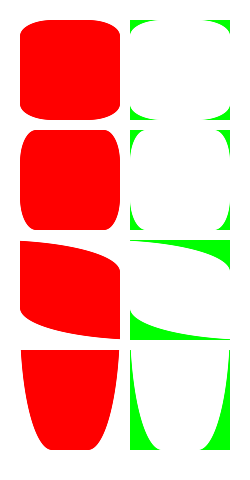
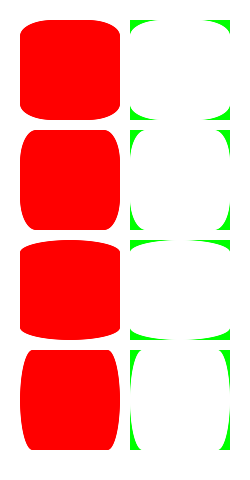
Fix overlapping border radii handling.
This ensures that the shader takes the max clipped distance
from each active clip region, which fixes this bug.

Additionally, apply the CSS spec radius clamping to clip rects.
This makes the results in the clip/clip-ellipse reftest match
Gecko, so I updated the reference image.

Fixes #2174.

diff --git a/src/webrender/src/border.rs b/src/webrender/src/border.rs
@@ -227,7 +227,10 @@ impl NormalBorderHelpers for NormalBorder {
     }
 }
 
-fn ensure_no_corner_overlap(radius: &mut BorderRadius, info: &LayerPrimitiveInfo) {
+pub fn ensure_no_corner_overlap(
+    radius: &mut BorderRadius,
+    rect: &LayerRect,
+) {
     let mut ratio = 1.0;
     let top_left_radius = &mut radius.top_left;
     let top_right_radius = &mut radius.top_right;
@@ -235,23 +238,23 @@ fn ensure_no_corner_overlap(radius: &mut BorderRadius, info: &LayerPrimitiveInfo
     let bottom_left_radius = &mut radius.bottom_left;
 
     let sum = top_left_radius.width + bottom_left_radius.width;
-    if info.rect.size.width < sum {
-        ratio = f32::min(ratio, info.rect.size.width / sum);
+    if rect.size.width < sum {
+        ratio = f32::min(ratio, rect.size.width / sum);
     }
 
     let sum = top_right_radius.width + bottom_right_radius.width;
-    if info.rect.size.width < sum {
-        ratio = f32::min(ratio, info.rect.size.width / sum);
+    if rect.size.width < sum {
+        ratio = f32::min(ratio, rect.size.width / sum);
     }
 
     let sum = top_left_radius.height + bottom_left_radius.height;
-    if info.rect.size.height < sum {
-        ratio = f32::min(ratio, info.rect.size.height / sum);
+    if rect.size.height < sum {
+        ratio = f32::min(ratio, rect.size.height / sum);
     }
 
     let sum = top_right_radius.height + bottom_right_radius.height;
-    if info.rect.size.height < sum {
-        ratio = f32::min(ratio, info.rect.size.height / sum);
+    if rect.size.height < sum {
+        ratio = f32::min(ratio, rect.size.height / sum);
     }
 
     if ratio < 1. {
@@ -353,7 +356,7 @@ impl FrameBuilder {
         // threads being run on CI at once).
 
         let mut border = *border;
-        ensure_no_corner_overlap(&mut border.radius, &info);
+        ensure_no_corner_overlap(&mut border.radius, &info.rect);
 
         let radius = &border.radius;
         let left = &border.left;

diff --git a/src/webrender/src/box_shadow.rs b/src/webrender/src/box_shadow.rs
@@ -87,7 +87,7 @@ impl FrameBuilder {
             let fast_info = match clip_mode {
                 BoxShadowClipMode::Outset => {
                     // TODO(gw): Add a fast path for ClipOut + zero border radius!
-                    clips.push(ClipSource::RoundedRectangle(
+                    clips.push(ClipSource::new_rounded_rect(
                         prim_info.rect,
                         border_radius,
                         ClipMode::ClipOut
@@ -106,7 +106,7 @@ impl FrameBuilder {
                     )
                 }
                 BoxShadowClipMode::Inset => {
-                    clips.push(ClipSource::RoundedRectangle(
+                    clips.push(ClipSource::new_rounded_rect(
                         shadow_rect,
                         shadow_radius,
                         ClipMode::ClipOut
@@ -252,7 +252,7 @@ impl FrameBuilder {
                     //           segment logic, by avoiding drawing
                     //           most of the pixels inside and just
                     //           clipping out along the edges.
-                    extra_clips.push(ClipSource::RoundedRectangle(
+                    extra_clips.push(ClipSource::new_rounded_rect(
                         prim_info.rect,
                         border_radius,
                         ClipMode::ClipOut,
@@ -340,7 +340,7 @@ impl FrameBuilder {
                     // Add a normal clip to ensure nothing gets drawn
                     // outside the primitive rect.
                     if !border_radius.is_zero() {
-                        extra_clips.push(ClipSource::RoundedRectangle(
+                        extra_clips.push(ClipSource::new_rounded_rect(
                             prim_info.rect,
                             border_radius,
                             ClipMode::Clip,

diff --git a/src/webrender/src/clip.rs b/src/webrender/src/clip.rs
@@ -4,7 +4,7 @@
 
 use api::{BorderRadius, ClipMode, ComplexClipRegion, DeviceIntRect, ImageMask, ImageRendering};
 use api::{LayerPoint, LayerRect, LayerToWorldTransform, LayoutPoint, LayoutVector2D, LocalClip};
-use border::BorderCornerClipSource;
+use border::{BorderCornerClipSource, ensure_no_corner_overlap};
 use ellipse::Ellipse;
 use freelist::{FreeList, FreeListHandle, WeakFreeListHandle};
 use gpu_cache::{GpuCache, GpuCacheHandle, ToGpuBlocks};
@@ -87,7 +87,7 @@ impl From<ClipRegion> for ClipSources {
         clips.push(ClipSource::Rectangle(region.main));
 
         for complex in region.complex_clips {
-            clips.push(ClipSource::RoundedRectangle(
+            clips.push(ClipSource::new_rounded_rect(
                 complex.rect,
                 complex.radii,
                 complex.mode,
@@ -99,6 +99,19 @@ impl From<ClipRegion> for ClipSources {
 }
 
 impl ClipSource {
+    pub fn new_rounded_rect(
+        rect: LayerRect,
+        mut radii: BorderRadius,
+        clip_mode: ClipMode
+    ) -> ClipSource {
+        ensure_no_corner_overlap(&mut radii, &rect);
+        ClipSource::RoundedRectangle(
+            rect,
+            radii,
+            clip_mode,
+        )
+    }
+
     pub fn contains(&self, point: &LayerPoint) -> bool {
         // We currently do not handle all BorderCorners, because they aren't used for
         // ClipScrollNodes and this method is only used during hit testing.

diff --git a/src/webrender/src/frame_builder.rs b/src/webrender/src/frame_builder.rs
@@ -202,7 +202,8 @@ impl FrameBuilder {
     ) -> PrimitiveIndex {
         if let &LocalClip::RoundedRect(main, region) = &info.local_clip {
             clip_sources.push(ClipSource::Rectangle(main));
-            clip_sources.push(ClipSource::RoundedRectangle(
+
+            clip_sources.push(ClipSource::new_rounded_rect(
                 region.rect,
                 region.radii,
                 region.mode,
